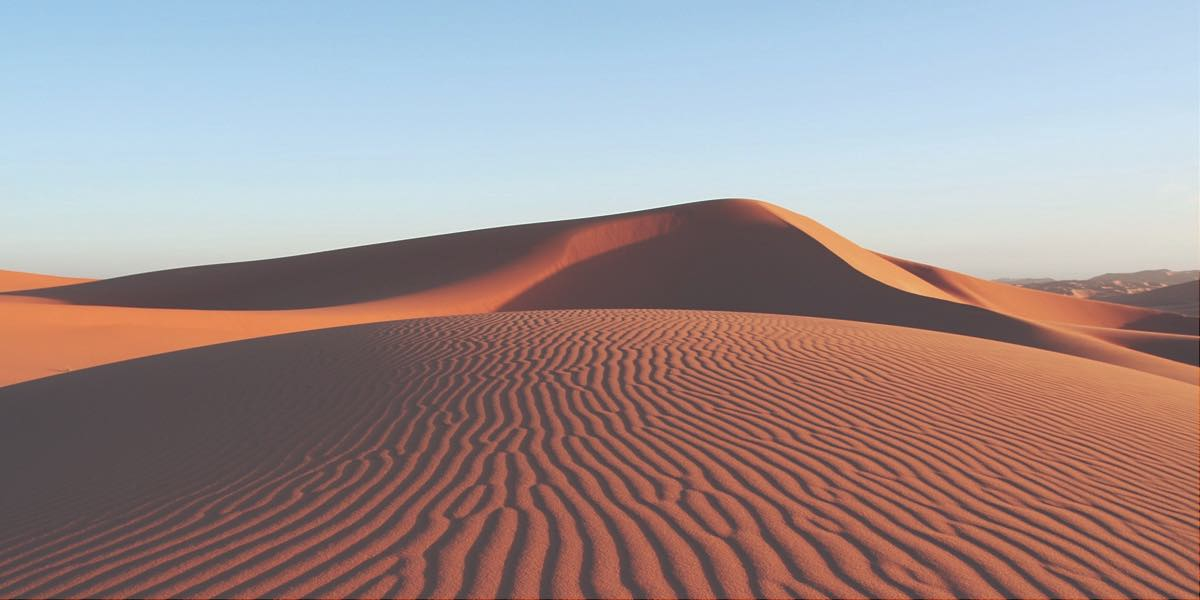
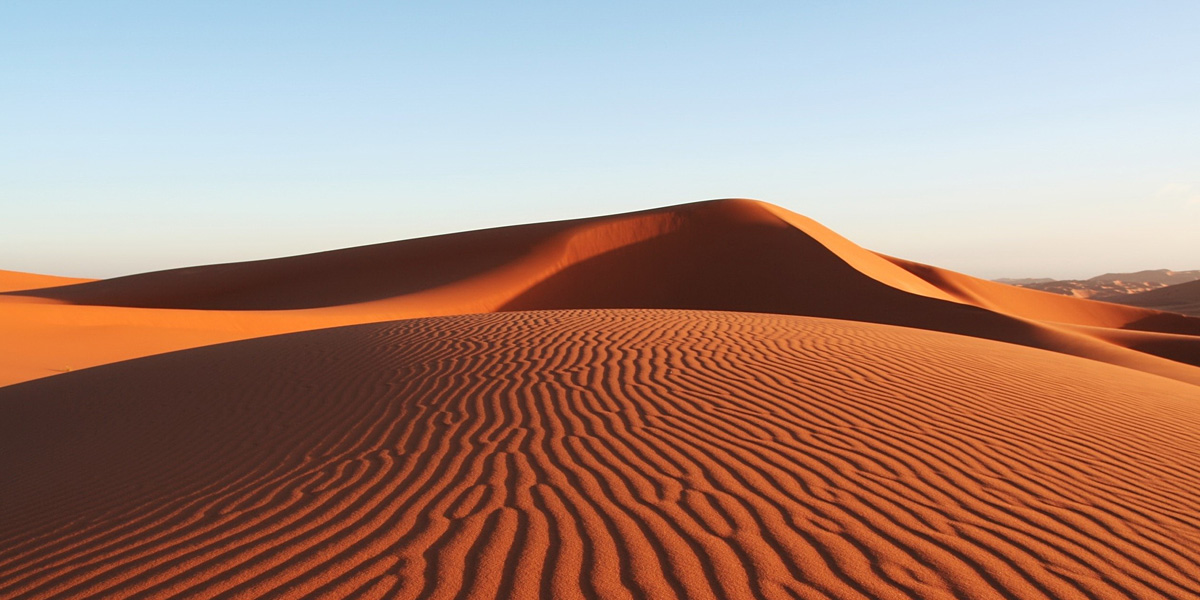
made background sharper, added website, change styling, removed/changed needless code

diff --git a/src/components/Header.js b/src/components/Header.js
@@ -10,31 +10,20 @@ const AppHeader = () => (
         <Segment style={{marginTop: '2%', background: '#D6E3E8B3'}} padded>
           <Grid.Row centered >
             <Grid.Column textAlign='center'>
-                <h2>Hello, I'm Lance!</h2> 
+                <h2 className='Text'>Hello, I'm Lance!</h2> 
                 <Image style={{marginTop: '-1.5%'}} src={profileImage} size='small' centered circular />
-                <h3 style={{marginTop: '0%'}}>A Jr. Developer from the great state of Arizona who is looking for my first web developer job after making a career switch.</h3>
-                <h5 style={{marginTop: '-1%', marginBottom: '-2%'}} >I enjoy sports, playing music, writing, playing games, chasing around my cats, and of course, coding!</h5>
+                <h3 className='Text' style={{marginTop: '0%'}}>A Jr. Developer from the great state of Arizona who is looking for my first web developer job after making a career switch.</h3>
+                <h4 className='Text' style={{marginTop: '-1%'}} >I enjoy sports, playing music, writing, playing games, chasing around my cats, and of course, coding!</h4>
+                <h4  style={{marginTop: '-1%', marginBottom: '-2%'}}>These websits are made using Reactv16, Redux, Node, Socket IO, Semantic UI, MongoDB, Mongoose, Express, and incorporate es6 & es7 syntax.</h4>
           </Grid.Column>
         </Grid.Row>
         </Segment>
-        <Grid.Row centered columns={2} className='Display'>
-            <div><Segment className='Display' style={{ background: '#D6E3E8B3'}} stacked>
-                <Grid.Column>
-                <Segment color='orange'>
-                <h3>Areas of knowledge</h3>
-                <ul>
-                    <li>HTML &emsp; Node.JS &emsp; Github</li>
-                    <li>&emsp;&nbsp;CSS &emsp; MongoDB &emsp; Meteor.JS</li>
-                    <li>&emsp;&nbsp;Semantic UI &emsp; React &emsp; Redux</li>
-                    <li>&emsp;&emsp;&emsp;&emsp;JavaScript &emsp; Socket.IO &emsp; Mongoose</li>
-                </ul>
-                </Segment>
-                </Grid.Column>
-            </Segment></div>
+        <Grid.Row centered columns={3} className='Display'>
+            
             <Segment className='Display' style={{ background: '#D6E3E8B3'}} stacked>
                 <Grid.Column>
                 <h3>Websites:</h3>
-                <Page html="https://ricayustudios.herokuapp.com/" title="Ricayu's Photo Studio" text="A site design for a photographer's business"/>
+                <Page html="https://ricayustudios.herokuapp.com/" title="Ricayu's Photo Studio" text={<div><br />"A site design for a photographer's business"</div>}/>
                 <Page html="https://mcmtac.herokuapp.com/" title="MCMTAC" text={
                     <div><br />My first full stack app, created with React, MongoDB,
                     <br />Redux, and socket IO for chat. It is a page
@@ -42,6 +31,10 @@ const AppHeader = () => (
                     <br />to play a D&D style game I created. 
                     <br />
                     <br />to login, use: name: 'gm' password: 'me123'</div>
+                }/>
+                <Page html="https://lwweather.herokuapp.com" title="Changing CSS Weather App" text={
+                    <div><br />A weather app that displays nice, changing backgrounds,
+                    <br />and a rain animation based off of the current weather</div>
                 }/>
                 </Grid.Column>
             </Segment>

diff --git a/public/index.html b/public/index.html
@@ -4,6 +4,7 @@
     <meta charset="utf-8">
     <meta name="viewport" content="width=device-width, initial-scale=1, shrink-to-fit=no">
     <meta name="theme-color" content="#000000">
+    <link href="https://fonts.googleapis.com/css?family=Nanum+Myeongjo" rel="stylesheet">
     <link rel="manifest" href="%PUBLIC_URL%/manifest.json">
     <title>Profile</title>
   </head>

diff --git a/src/App.css b/src/App.css
@@ -4,9 +4,13 @@
   width: 100%; */
 
   font-size: 62.5%;
-  height: 140vh;
+  height: 135vh;
 }
 
 .Display{
   display: inline-block;
+}
+
+.Text{
+  font-family: 'Nanum Myeongjo', serif;
 }
